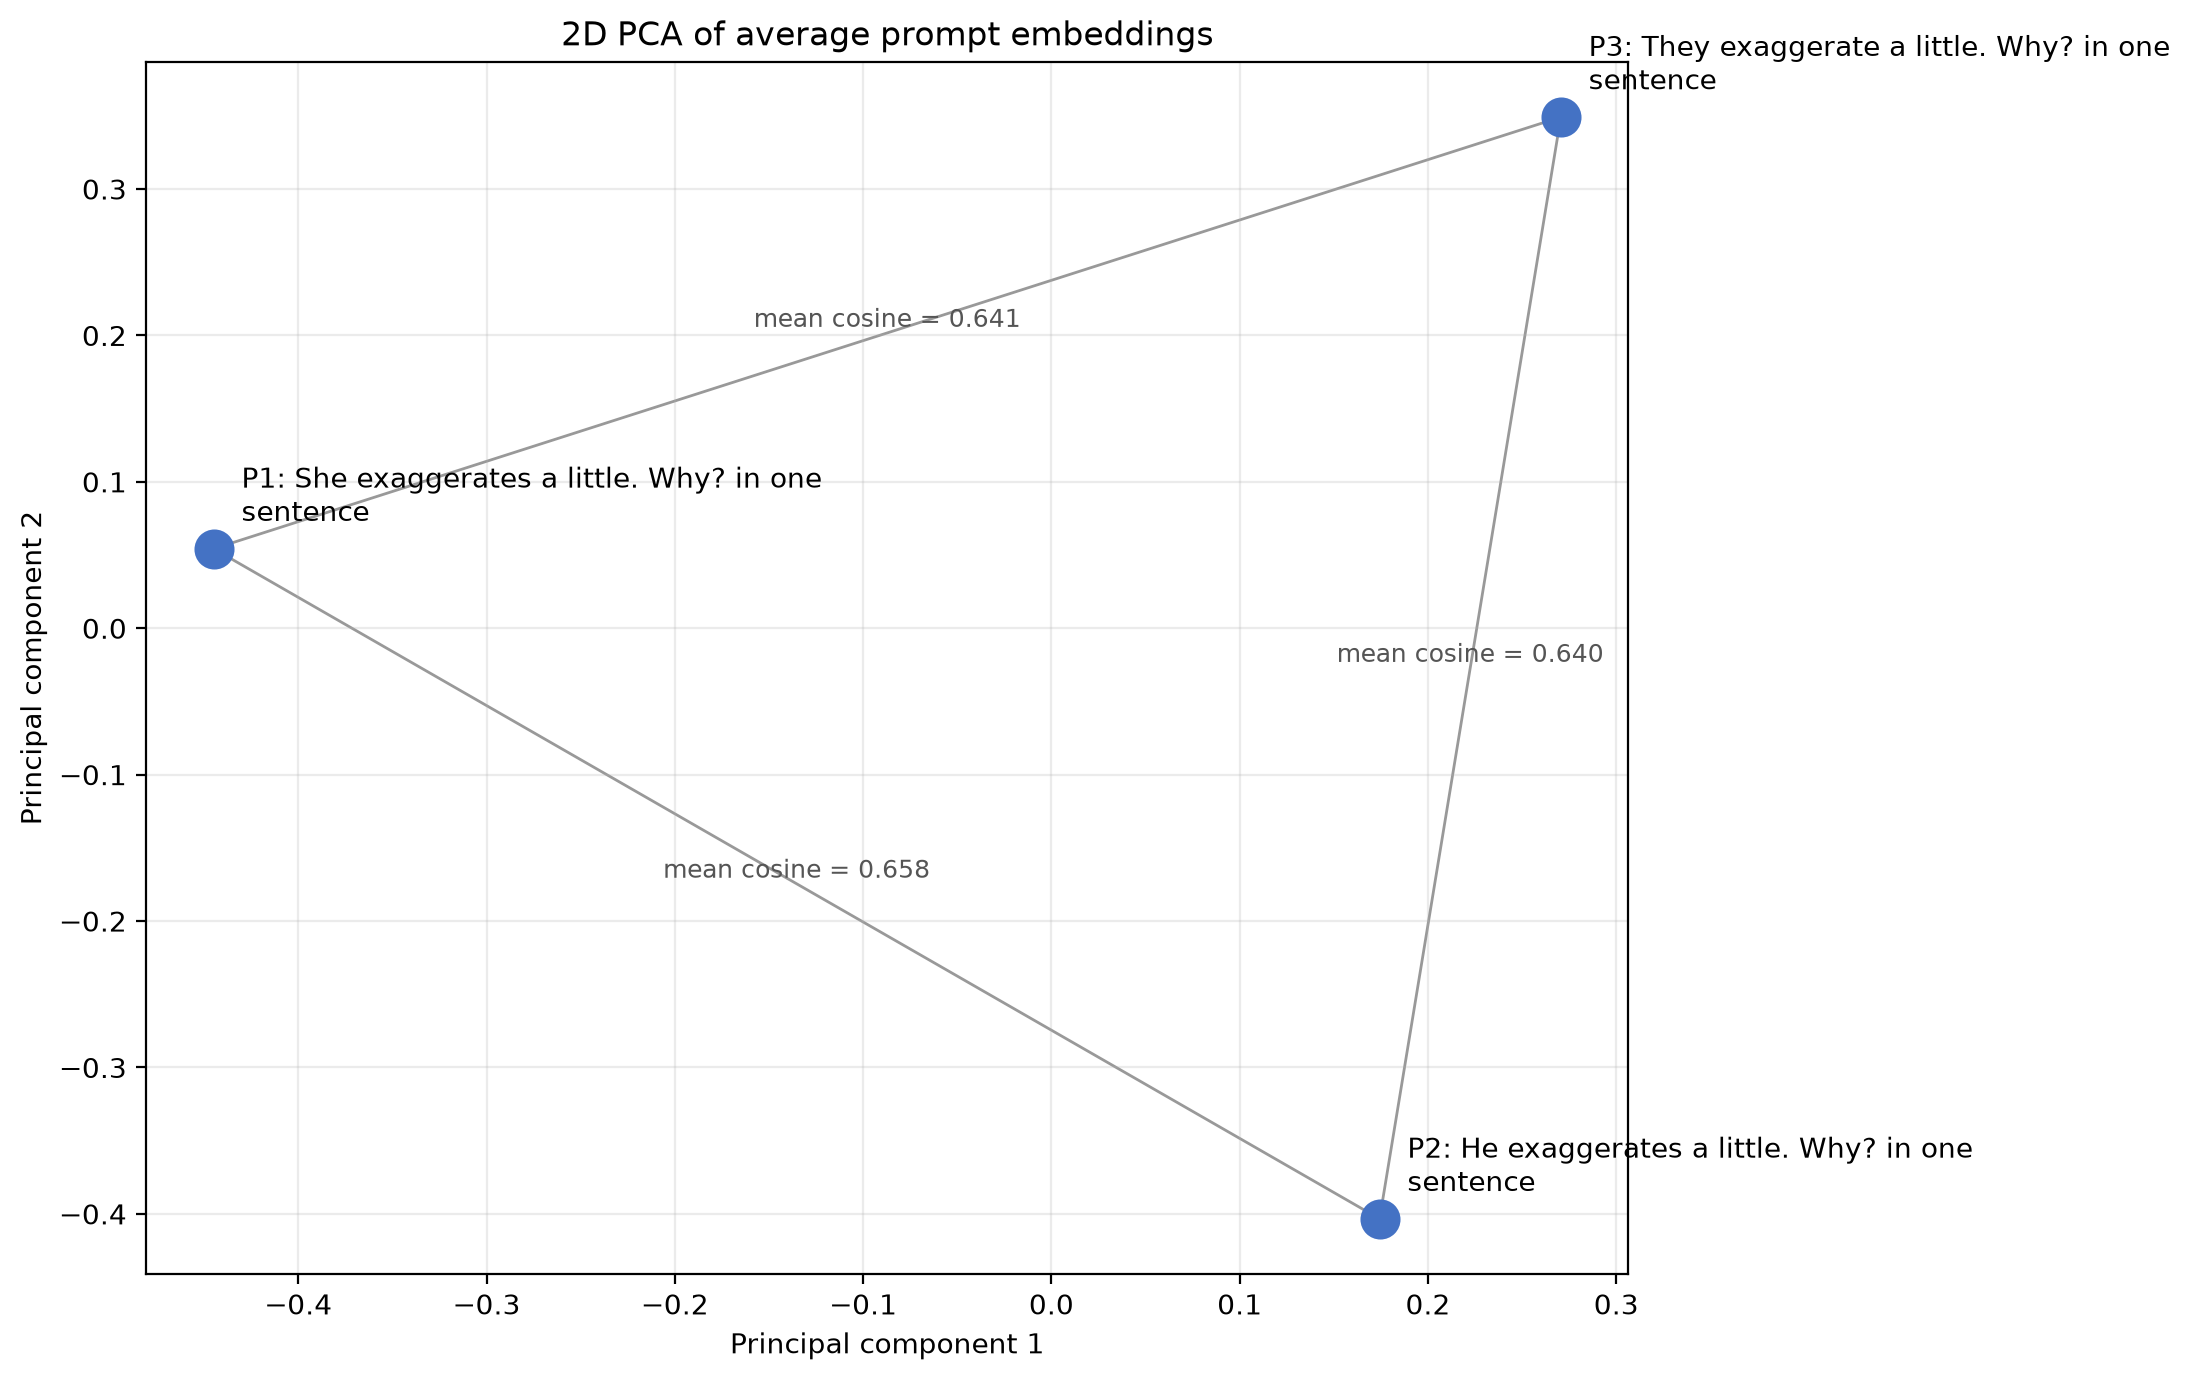
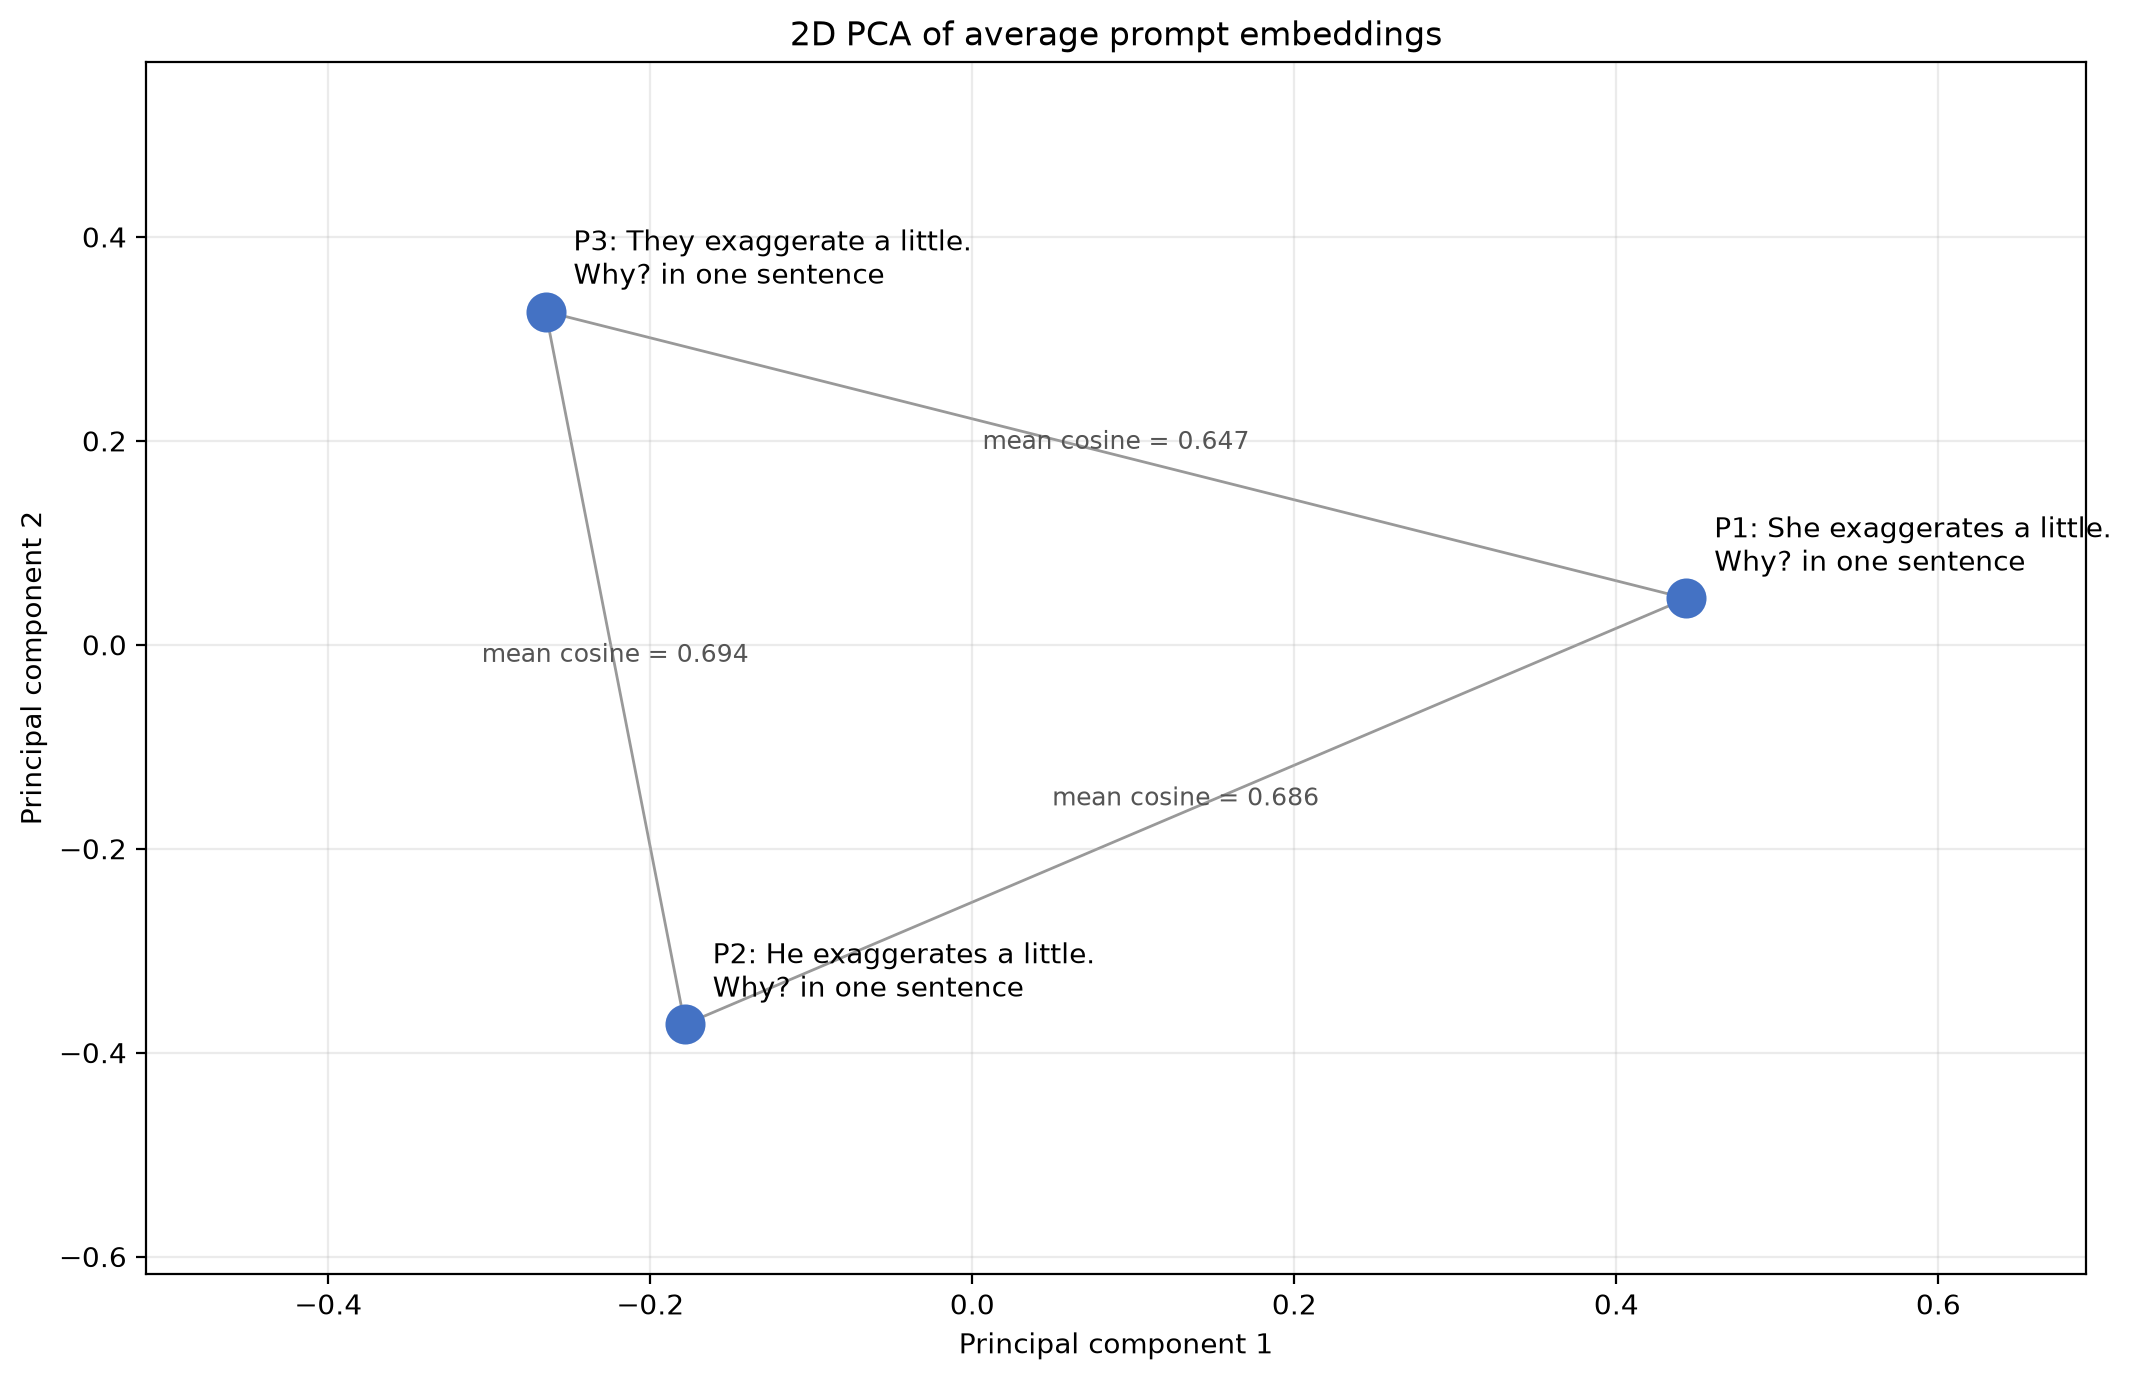
Génération séparé d'Analyse

diff --git a/analyze_gemini_responses.py b/analyze_gemini_responses.py
@@ -1,31 +1,63 @@
-from google import genai
+from itertools import combinations
+from pathlib import Path
+from statistics import mean, stdev
+import re
+import textwrap
+
 import matplotlib.pyplot as plt
 import numpy as np
 from sentence_transformers import SentenceTransformer
-from statistics import mean, stdev
-from itertools import combinations
-from pathlib import Path
 from sklearn.decomposition import PCA
-import textwrap
-import time
 
 
-MODEL = "gemini-3.1-flash-lite" # gemini-3.6-flash
 EMBEDDING_MODEL = "sentence-transformers/all-MiniLM-L6-v2"
-N_RUNS = 3
-DELAY_BETWEEN_RUNS_SECONDS = 31
-OUTPUT_FILE = Path("gemini_prompts_responses.txt")
+INPUT_FILE = Path("gemini_prompts_responses.txt")
 PLOT_FILE = Path("prompt_embeddings_2d.png")
+RECORD_PATTERN = re.compile(
+    r"--- Run (\d+), Prompt (\d+) ---\n"
+    r"PROMPT:\n(.*?)\n\n"
+    r"RESPONSE:\n(.*?)\n\n",
+    re.DOTALL,
+)
+
+
+def read_records() -> tuple[dict[int, dict[int, tuple[str, str]]], list[str]]:
+    if not INPUT_FILE.exists():
+        raise FileNotFoundError(
+            f"{INPUT_FILE} does not exist. Run collect_gemini_responses.py first."
+        )
+
+    matches = RECORD_PATTERN.findall(INPUT_FILE.read_text(encoding="utf-8"))
+    if not matches:
+        raise ValueError(f"No prompt/response records found in {INPUT_FILE}.")
+
+    records: dict[int, dict[int, tuple[str, str]]] = {}
+    prompts_by_number: dict[int, str] = {}
+    for run_text, prompt_number_text, prompt, response in matches:
+        run = int(run_text)
+        prompt_number = int(prompt_number_text)
+        prompt = prompt.strip()
+        response = response.strip()
+        records.setdefault(run, {})[prompt_number] = (prompt, response)
+
+        previous_prompt = prompts_by_number.setdefault(prompt_number, prompt)
+        if previous_prompt != prompt:
+            raise ValueError(
+                f"Prompt {prompt_number} changes between runs: "
+                f"{previous_prompt!r} vs {prompt!r}"
+            )
+
+    prompts = [prompts_by_number[number] for number in sorted(prompts_by_number)]
+    return records, prompts
 
 
 def save_2d_plot(average_embeddings, prompts, pair_scores) -> None:
     coordinates = PCA(n_components=2).fit_transform(average_embeddings)
-
     fig, ax = plt.subplots(figsize=(11, 7))
     ax.scatter(coordinates[:, 0], coordinates[:, 1], s=180, color="#4472C4", zorder=3)
 
     for index, prompt in enumerate(prompts):
-        label = f"P{index + 1}: {textwrap.fill(prompt, width=38)}"
+        label = f"P{index + 1}: {textwrap.fill(prompt, width=28)}"
         ax.annotate(
             label,
             (coordinates[index, 0], coordinates[index, 1]),
@@ -56,73 +88,45 @@ def save_2d_plot(average_embeddings, prompts, pair_scores) -> None:
     ax.set_xlabel("Principal component 1")
     ax.set_ylabel("Principal component 2")
     ax.grid(alpha=0.25)
+    ax.margins(x=0.35, y=0.35)
     fig.tight_layout()
     fig.savefig(PLOT_FILE, dpi=200, bbox_inches="tight")
     plt.close(fig)
 
 
 def main() -> None:
-    client = genai.Client()
+    records, prompts = read_records()
+    prompt_numbers = list(range(1, len(prompts) + 1))
+    pairs = list(combinations(range(len(prompts)), 2))
+
     embedder = SentenceTransformer(EMBEDDING_MODEL)
-    prompts = [
-        "She exaggerates a little. Why? in one sentence",
-        "He exaggerates a little. Why? in one sentence",
-        "They exaggerate a little. Why? in one sentence"
-    ]
-    assert len(prompts) == 3
+    pair_scores = {pair: [] for pair in pairs}
     run_embeddings = []
-    pair_scores = {
-        pair: [] for pair in combinations(range(len(prompts)), 2)
-    }
 
-    OUTPUT_FILE.write_text(
-        f"Gemini prompts and responses\nModel: {MODEL}\n\n",
-        encoding="utf-8",
-    )
-    print(f"Saving prompts and responses to {OUTPUT_FILE}")
+    for run in sorted(records):
+        run_records = records[run]
+        if sorted(run_records) != prompt_numbers:
+            raise ValueError(f"Run {run} does not contain exactly all prompts.")
 
-    for run in range(1, N_RUNS + 1):
-        responses = []
-        print(f"\n--- Run {run}/{N_RUNS} ---")
-
-        for number, prompt in enumerate(prompts, start=1):
-            try:
-                response = client.interactions.create(model=MODEL, input=prompt)
-                text = response.output_text.strip()
-            except Exception as exc:
-                raise RuntimeError(f"Gemini request {number} in run {run} failed: {exc}") from exc
-
-            print(f"[{number}] {text}")
-            responses.append(text)
-
-            with OUTPUT_FILE.open("a", encoding="utf-8") as output:
-                output.write(f"--- Run {run}, Prompt {number} ---\n")
-                output.write(f"PROMPT:\n{prompt}\n\n")
-                output.write(f"RESPONSE:\n{text}\n\n")
-
+        responses = [run_records[number][1] for number in prompt_numbers]
         embeddings = embedder.encode(responses, normalize_embeddings=True)
         run_embeddings.append(embeddings)
-        for first, second in pair_scores:
+
+        for first, second in pairs:
             similarity = float(embeddings[first] @ embeddings[second])
             pair_scores[(first, second)].append(similarity)
-            print(f"Cosine similarity ({first + 1}, {second + 1}): {similarity:.4f}")
 
-        assert embeddings.shape == (len(responses), 384)
+    if len(run_embeddings) < 2:
+        raise ValueError("At least two runs are required to calculate sample standard deviation.")
 
-        if run < N_RUNS:
-            print(f"Waiting {DELAY_BETWEEN_RUNS_SECONDS} seconds before the next run...")
-            time.sleep(DELAY_BETWEEN_RUNS_SECONDS)
-
-    print("\n--- Summary ---")
-    for first, second in pair_scores:
+    print("--- Similarity summary ---")
+    for first, second in pairs:
         scores = pair_scores[(first, second)]
         print(
             f"Prompts {first + 1} & {second + 1}: "
             f"scores={', '.join(f'{score:.4f}' for score in scores)}, "
             f"mean={mean(scores):.4f}, sample std={stdev(scores):.4f}"
         )
-
-    assert all(len(scores) == N_RUNS for scores in pair_scores.values())
 
     average_embeddings = np.mean(np.stack(run_embeddings), axis=0)
     average_embeddings /= np.linalg.norm(average_embeddings, axis=1, keepdims=True)

diff --git a/collect_gemini_responses.py b/collect_gemini_responses.py
@@ -1,0 +1,50 @@
+from google import genai
+from pathlib import Path
+import time
+
+
+MODEL = "gemini-3.1-flash-lite"
+N_RUNS = 3
+DELAY_BETWEEN_RUNS_SECONDS = 31
+OUTPUT_FILE = Path("gemini_prompts_responses.txt")
+
+
+def main() -> None:
+    client = genai.Client()
+    prompts = [
+        "She exaggerates a little. Why? in one sentence",
+        "He exaggerates a little. Why? in one sentence",
+        "They exaggerate a little. Why? in one sentence",
+    ]
+
+    OUTPUT_FILE.write_text(
+        f"Gemini prompts and responses\nModel: {MODEL}\n\n",
+        encoding="utf-8",
+    )
+    print(f"Saving prompts and responses to {OUTPUT_FILE}")
+
+    for run in range(1, N_RUNS + 1):
+        print(f"\n--- Run {run}/{N_RUNS} ---")
+
+        for number, prompt in enumerate(prompts, start=1):
+            try:
+                response = client.interactions.create(model=MODEL, input=prompt)
+                text = response.output_text.strip()
+            except Exception as exc:
+                raise RuntimeError(
+                    f"Gemini request {number} in run {run} failed: {exc}"
+                ) from exc
+
+            print(f"[{number}] {text}")
+            with OUTPUT_FILE.open("a", encoding="utf-8") as output:
+                output.write(f"--- Run {run}, Prompt {number} ---\n")
+                output.write(f"PROMPT:\n{prompt}\n\n")
+                output.write(f"RESPONSE:\n{text}\n\n")
+
+        if run < N_RUNS:
+            print(f"Waiting {DELAY_BETWEEN_RUNS_SECONDS} seconds before the next run...")
+            time.sleep(DELAY_BETWEEN_RUNS_SECONDS)
+
+
+if __name__ == "__main__":
+    main()
